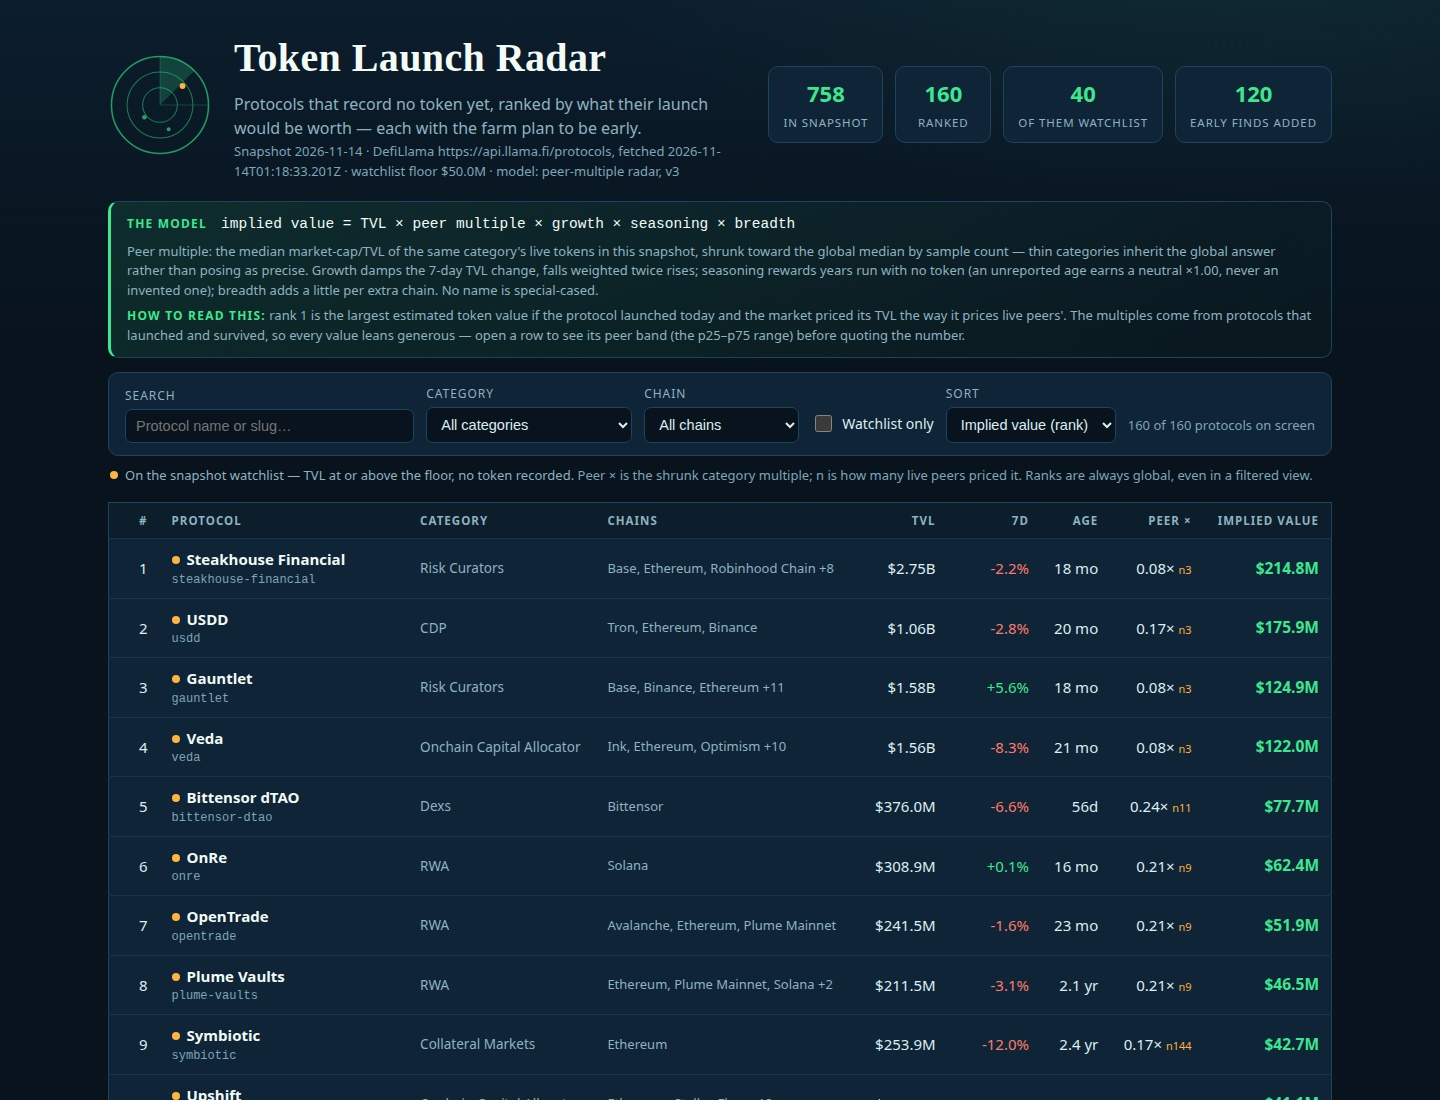
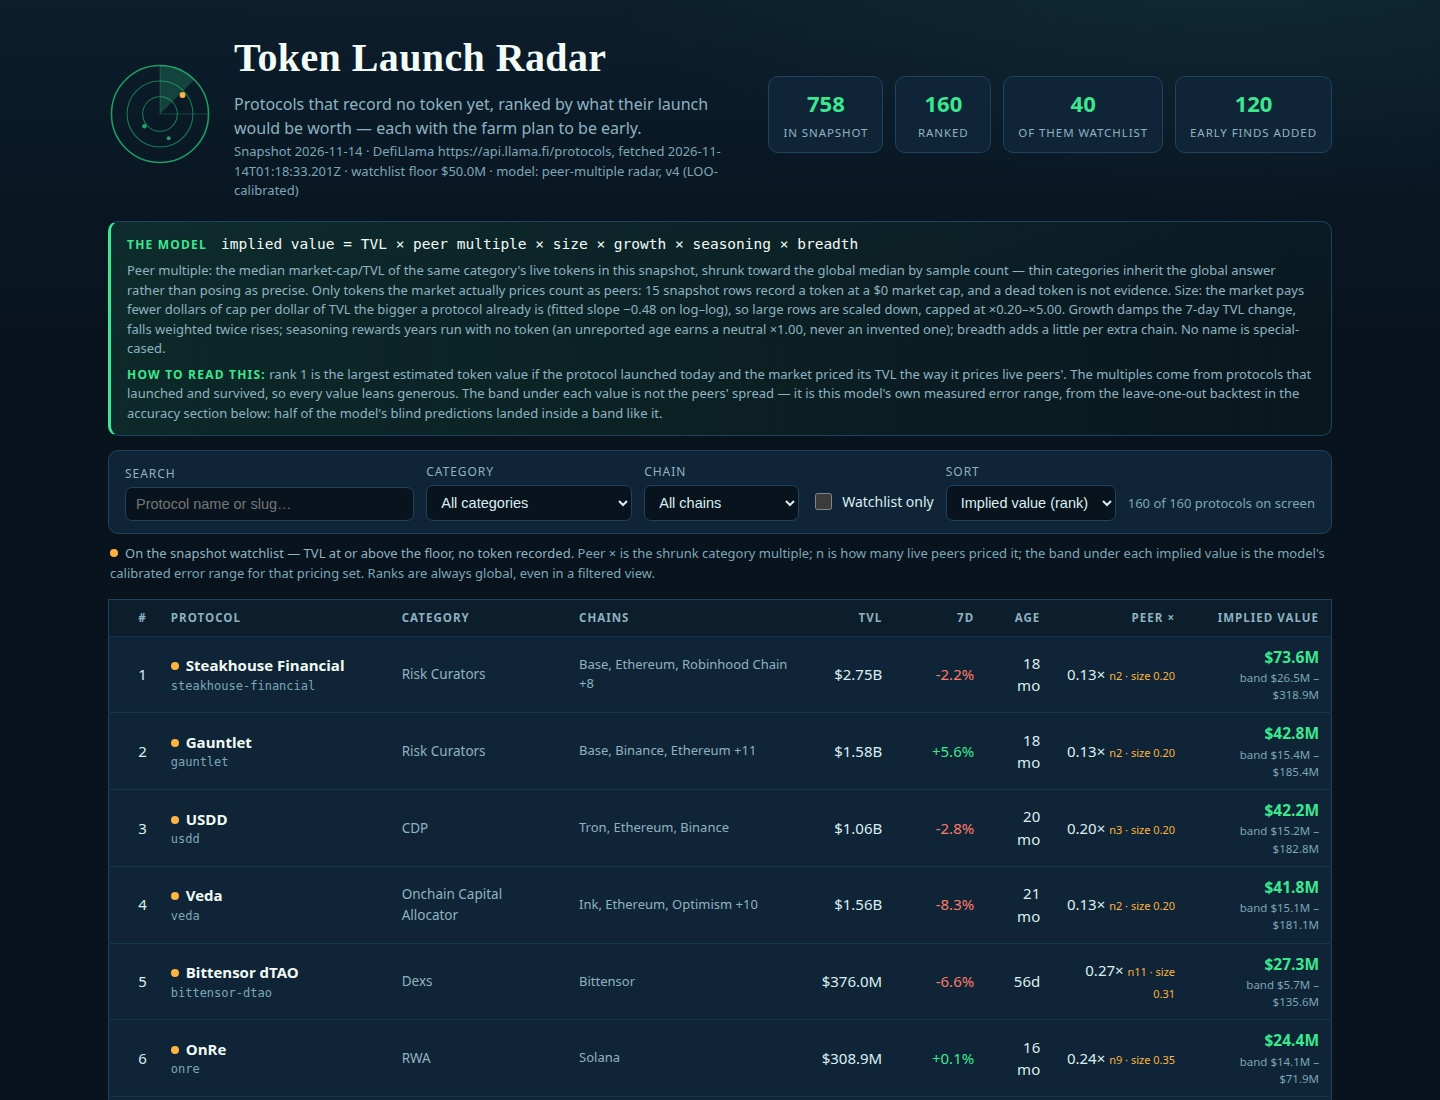
Stage 3 (v2): dashboard v2 — accuracy view, calibrated bands, comparables
- New Model accuracy section + dedicated #view=accuracy mode: LOO
  stat cards, v1-vs-v4 table on identical trials, error histogram,
  per-category record sorted weakest-first
- Board rows carry the calibrated band under each implied value and
  the size factor beside the peer multiple
- Detail view: size factor row, calibrated-band wording, per-row
  backtest context line, and a comparables table of the live peers
  behind the multiple (new comparables payload in RadarData — the
  24-row live strip was a showcase, not the peer universe)
- Four screenshots (board, accuracy, detail, RWA-filtered), all in
  the 300-350 KB band

diff --git a/dashboard/app.js b/dashboard/app.js
@@ -78,8 +78,10 @@ function renderBoard() {
         '<td class="num">' + money(r.tvl_usd) + '</td>' +
         '<td class="num ' + chg + '">' + pct(r.change_7d) + '</td>' +
         '<td class="num">' + ageText(r.age_days) + '</td>' +
-        '<td class="num">' + r.model.peer_multiple.toFixed(2) + '× <span class="pn">n' + r.model.peer_samples + '</span></td>' +
-        '<td class="num implied">' + money(r.implied_value_usd) + '</td>' +
+        '<td class="num">' + r.model.peer_multiple.toFixed(2) + '× <span class="pn">n' + r.model.peer_samples +
+        (r.model.size_factor !== 1 ? ' · size ' + r.model.size_factor.toFixed(2) : '') + '</span></td>' +
+        '<td class="num implied">' + money(r.implied_value_usd) +
+        '<span class="band">band ' + money(r.implied_low_usd) + ' – ' + money(r.implied_high_usd) + '</span></td>' +
         '</tr>'
       );
     })
@@ -87,6 +89,57 @@ function renderBoard() {
   for (const tr of document.querySelectorAll('#board-body tr')) {
     tr.addEventListener('click', () => openDetail(tr.getAttribute('data-slug')));
   }
+}
+
+/* The category whose live peers priced a row: its own when it has a peer
+   set on the evidence table, else the declared alias's, else its own when
+   it is itself an alias target (a thin set the model declares as evidence). */
+const PEER_ALIAS = { 'Risk Curators': 'Onchain Capital Allocator' };
+function pricingCategory(r) {
+  if (!r.category) return null;
+  if (R.peers && R.peers.some((p) => p.category === r.category)) return r.category;
+  if (PEER_ALIAS[r.category]) return PEER_ALIAS[r.category];
+  if (Object.values(PEER_ALIAS).includes(r.category)) return r.category;
+  return null;
+}
+
+/** This pricing set's record in the backtest, in one honest sentence. */
+function accuracyLine(r) {
+  const A = R.accuracy;
+  if (!A) return '';
+  const pc = pricingCategory(r);
+  const c = pc ? A.categories.find((x) => x.category === pc) : null;
+  if (c) {
+    return (
+      'On ' + c.trials + ' blind trials in ' + c.category + ', the model\'s typical miss was ×/÷' +
+      Math.pow(10, c.median_abs_log10).toFixed(1) + ' and ' + c.within_2x_pct +
+      '% of predictions landed within 2× of the actual cap. This row\'s band is that measured range.'
+    );
+  }
+  return (
+    'Across all ' + A.subjects + ' blind trials, the model\'s typical miss was ×/÷' + A.typical_factor.toFixed(1) +
+    '. This row is priced on a set with too few blind trials of its own, so its band is the global measured range.'
+  );
+}
+
+/** The live peers behind a row's multiple, as a comparables table. */
+function comparablesHtml(r) {
+  const pc = pricingCategory(r);
+  if (!pc || !R.comparables) return '';
+  const peers = R.comparables[pc] || [];
+  if (peers.length === 0) return '';
+  return (
+    '<h3>The peers behind the multiple</h3>' +
+    '<table class="factors"><tr><td>Live peer</td><td class="num">Market cap</td><td class="num">TVL</td><td class="num">Cap / TVL</td></tr>' +
+    peers
+      .map(
+        (l) =>
+          '<tr><td>' + esc(l.name) + '</td><td class="num">' + money(l.mcap_usd) + '</td><td class="num">' +
+          money(l.tvl_usd) + '</td><td class="num">' + l.multiple.toFixed(2) + '×</td></tr>',
+      )
+      .join('') +
+    '</table>'
+  );
 }
 
 function openDetail(slug) {
@@ -103,11 +156,12 @@ function openDetail(slug) {
   const factorRows =
     '<tr><td>TVL</td><td class="num">' + money(r.tvl_usd) + '</td><td>the size being priced</td></tr>' +
     '<tr><td>Peer multiple</td><td class="num">' + fx(m.peer_multiple) + '</td><td>' + esc(m.peer_basis) + '</td></tr>' +
+    '<tr><td>Size</td><td class="num">' + fx(m.size_factor) + '</td><td>the market pays less cap per TVL dollar the larger a protocol already is; fitted on the peer set, capped ×0.20–×5.00</td></tr>' +
     '<tr><td>Growth</td><td class="num">' + fx(m.growth_factor) + '</td><td>7-day TVL change ' + m.growth_pct.toFixed(1) + '%, damped; falls weigh twice rises</td></tr>' +
     '<tr><td>Seasoning</td><td class="num">' + fx(m.seasoning_factor) + '</td><td>' + esc(seasonNote) + '</td></tr>' +
     '<tr><td>Breadth</td><td class="num">' + fx(m.breadth_factor) + '</td><td>' + r.chains.length + ' chain(s) recorded</td></tr>' +
-    '<tr class="total"><td>Implied value</td><td class="num">' + money(r.implied_value_usd) + '</td><td>peer band ' +
-    money(r.implied_low_usd) + ' – ' + money(r.implied_high_usd) + ' at the peer set\'s p25–p75</td></tr>';
+    '<tr class="total"><td>Implied value</td><td class="num">' + money(r.implied_value_usd) + '</td><td>calibrated band ' +
+    money(r.implied_low_usd) + ' – ' + money(r.implied_high_usd) + ' — the model\'s measured error range for this pricing set</td></tr>';
   $('detail').innerHTML =
     '<div class="detail-head"><h2>' + esc(r.name) + '</h2>' +
     '<span class="slug">' + esc(r.slug) + '</span>' +
@@ -115,7 +169,7 @@ function openDetail(slug) {
     '<span class="badge">Rank #' + r.rank + ' of ' + R.rows.length + '</span>' +
     '<button class="close" id="detail-close">Close ✕</button></div>' +
     '<div class="fact-grid">' +
-    '<div class="fact"><span>Implied value</span><b>' + money(r.implied_value_usd) + '</b><small>peer band ' +
+    '<div class="fact"><span>Implied value</span><b>' + money(r.implied_value_usd) + '</b><small>calibrated band ' +
     money(r.implied_low_usd) + ' – ' + money(r.implied_high_usd) + '</small></div>' +
     '<div class="fact"><span>TVL</span><b>' + money(r.tvl_usd) + '</b></div>' +
     '<div class="fact"><span>7-day TVL change</span><b class="' + chgClass + '">' + pct(r.change_7d) + '</b></div>' +
@@ -127,7 +181,8 @@ function openDetail(slug) {
     '</div>' +
     '<h3>How the value is worked out</h3>' +
     '<table class="factors">' + factorRows + '</table>' +
-    '<p class="model-note">The band is the same row priced at the peer set\'s p25 and p75 multiples: where peers disagree, the band is wide and the rank is a claim inside it, not a measurement.</p>' +
+    '<p class="model-note">' + esc(accuracyLine(r)) + '</p>' +
+    comparablesHtml(r) +
     '<h3>The farm plan</h3>' +
     '<ol class="steps">' + r.farm_steps.map((s) => '<li>' + esc(s) + '</li>').join('') + '</ol>';
   $('detail').hidden = false;
@@ -138,6 +193,48 @@ function openDetail(slug) {
     renderBoard();
   });
   renderBoard();
+}
+
+function renderAccuracy() {
+  const A = R.accuracy;
+  if (!A) return;
+  const biasWord = (b) => (b <= -0.02 ? 'leans low' : b >= 0.02 ? 'leans high' : 'centred');
+  $('acc-stats').innerHTML =
+    '<div class="stat"><b>' + A.subjects + '</b><span>blind trials</span></div>' +
+    '<div class="stat"><b>×/÷' + A.typical_factor.toFixed(1) + '</b><span>typical miss</span></div>' +
+    '<div class="stat"><b>' + A.within_2x_pct + '%</b><span>within 2×</span></div>' +
+    '<div class="stat"><b>' + A.within_3x_pct + '%</b><span>within 3×</span></div>' +
+    '<div class="stat"><b>' + A.band_coverage_pct + '%</b><span>band coverage</span></div>';
+  const cmpRow = (label, now, before) =>
+    '<tr><td>' + label + '</td><td class="num">' + now + '</td><td class="num">' + before + '</td></tr>';
+  $('acc-cmp').innerHTML =
+    '<thead><tr><th>Measure</th><th class="num">This model</th><th class="num">Previous</th></tr></thead><tbody>' +
+    cmpRow('Typical miss (median error)', '×/÷' + A.typical_factor.toFixed(1), '×/÷' + A.v1.typical_factor.toFixed(1)) +
+    cmpRow('Predictions within 2×', A.within_2x_pct + '%', A.v1.within_2x_pct + '%') +
+    cmpRow('Predictions within 3×', A.within_3x_pct + '%', A.v1.within_3x_pct + '%') +
+    cmpRow('Bias (mean log error)', A.bias_log10.toFixed(2) + ' — ' + biasWord(A.bias_log10), A.v1.bias_log10.toFixed(2) + ' — ' + biasWord(A.v1.bias_log10)) +
+    '</tbody>';
+  const maxCount = Math.max(...A.histogram.map((h) => h.count));
+  $('acc-histo').innerHTML = A.histogram
+    .map(
+      (h) =>
+        '<div class="hrow"><span class="hlabel">' + esc(h.label) + '</span>' +
+        '<span class="hbar" style="width:' + Math.max(2, Math.round((h.count / maxCount) * 100)) + '%"></span>' +
+        '<span class="hcount">' + h.count + '</span></div>',
+    )
+    .join('');
+  const worstFirst = [...A.categories].sort((a, b) => b.median_abs_log10 - a.median_abs_log10);
+  $('acc-cats').innerHTML =
+    '<thead><tr><th>Category</th><th class="num">Trials</th><th class="num">Typical miss</th><th class="num">Bias</th><th class="num">Within 2×</th></tr></thead><tbody>' +
+    worstFirst
+      .map(
+        (c) =>
+          '<tr><td>' + esc(c.category) + '</td><td class="num">' + c.trials + '</td><td class="num">×/÷' +
+          Math.pow(10, c.median_abs_log10).toFixed(1) + '</td><td class="num">' + biasWord(c.bias_log10) + '</td><td class="num">' +
+          c.within_2x_pct + '%</td></tr>',
+      )
+      .join('') +
+    '</tbody>';
 }
 
 function renderPeers() {
@@ -183,6 +280,9 @@ function applyHash() {
   } else if (h.toString()) {
     renderBoard();
   }
+  if (h.get('view') === 'accuracy') {
+    document.body.classList.add('accuracy-mode');
+  }
 }
 
 function init() {
@@ -202,6 +302,7 @@ function init() {
     R.live_size + ' · snapshot as of ' + R.as_of;
   fillSelects();
   renderPeers();
+  renderAccuracy();
   renderLive();
   renderBoard();
   applyHash();

diff --git a/dashboard/index.html b/dashboard/index.html
@@ -29,9 +29,9 @@
 
 <section class="model-strip" id="model-strip">
   <strong>The model</strong>
-  <span id="model-formula">implied value = TVL × peer multiple × growth × seasoning × breadth</span>
-  <span class="model-note">Peer multiple: the median market-cap/TVL of the same category's live tokens in this snapshot, shrunk toward the global median by sample count — thin categories inherit the global answer rather than posing as precise. Growth damps the 7-day TVL change, falls weighted twice rises; seasoning rewards years run with no token (an unreported age earns a neutral ×1.00, never an invented one); breadth adds a little per extra chain. No name is special-cased.</span>
-  <span class="model-note"><strong>How to read this:</strong> rank 1 is the largest estimated token value if the protocol launched today and the market priced its TVL the way it prices live peers'. The multiples come from protocols that launched and survived, so every value leans generous — open a row to see its peer band (the p25–p75 range) before quoting the number.</span>
+  <span id="model-formula">implied value = TVL × peer multiple × size × growth × seasoning × breadth</span>
+  <span class="model-note">Peer multiple: the median market-cap/TVL of the same category's live tokens in this snapshot, shrunk toward the global median by sample count — thin categories inherit the global answer rather than posing as precise. Only tokens the market actually prices count as peers: 15 snapshot rows record a token at a $0 market cap, and a dead token is not evidence. Size: the market pays fewer dollars of cap per dollar of TVL the bigger a protocol already is (fitted slope −0.48 on log–log), so large rows are scaled down, capped at ×0.20–×5.00. Growth damps the 7-day TVL change, falls weighted twice rises; seasoning rewards years run with no token (an unreported age earns a neutral ×1.00, never an invented one); breadth adds a little per extra chain. No name is special-cased.</span>
+  <span class="model-note"><strong>How to read this:</strong> rank 1 is the largest estimated token value if the protocol launched today and the market priced its TVL the way it prices live peers'. The multiples come from protocols that launched and survived, so every value leans generous. The band under each value is not the peers' spread — it is this model's own measured error range, from the leave-one-out backtest in the accuracy section below: half of the model's blind predictions landed inside a band like it.</span>
 </section>
 
 <nav class="controls" aria-label="Board controls">
@@ -58,7 +58,7 @@
   </label>
   <span class="count" id="row-count"></span>
 </nav>
-<p class="legend"><span class="wdot"></span>On the snapshot watchlist — TVL at or above the floor, no token recorded. <span class="legend-dim">Peer × is the shrunk category multiple; n is how many live peers priced it. Ranks are always global, even in a filtered view.</span></p>
+<p class="legend"><span class="wdot"></span>On the snapshot watchlist — TVL at or above the floor, no token recorded. <span class="legend-dim">Peer × is the shrunk category multiple; n is how many live peers priced it; the band under each implied value is the model's calibrated error range for that pricing set. Ranks are always global, even in a filtered view.</span></p>
 
 <main>
   <section id="detail" class="detail" hidden></section>
@@ -81,9 +81,28 @@
   </table>
   <p class="empty" id="empty" hidden>No protocol matches those filters. Loosen one and sweep again.</p>
 
+  <section class="live" id="accuracy">
+    <h2>Model accuracy — the model, graded on protocols it priced blind</h2>
+    <p class="live-note">A leave-one-out backtest inside this snapshot: each of the 128 protocols whose token already trades was removed from the peer set, priced by the model exactly as a pre-token protocol is priced, and compared with the market cap it actually carries. Fifteen further rows record a token at a $0 market cap — no price to predict against — and are excluded as subjects. The bands on the board come from these trials: each row carries the interquartile range of the model's own errors for its pricing set.</p>
+    <div class="acc-stats" id="acc-stats"></div>
+    <div class="acc-cols">
+      <div class="acc-box">
+        <h3 class="acc-h">This model vs the previous one — same 128 blind trials</h3>
+        <table class="peer-table" id="acc-cmp"></table>
+        <h3 class="acc-h">Where the blind predictions landed</h3>
+        <div id="acc-histo"></div>
+      </div>
+      <div class="acc-box">
+        <h3 class="acc-h">Per category — weakest first, nothing hidden</h3>
+        <table class="peer-table" id="acc-cats"></table>
+        <p class="model-note">Bridges and DEX rows carry the widest bands on the board because the model prices them worst: their market caps are set by things TVL does not record. The backtest runs on the same snapshot the model is fitted to — leave-one-out removes each subject from its own peer set, but the model's constants were chosen with these trials in view. Read this as calibration, not out-of-sample proof.</p>
+      </div>
+    </div>
+  </section>
+
   <section class="live" id="peers">
     <h2>The peer multiples, with their evidence</h2>
-    <p class="live-note">Every multiple the board uses, the live sample behind it, and the spread that sample actually shows. A category whose peers disagree thirty-fold prices its rows inside a wide band, and the board says so rather than hiding it in a point estimate.</p>
+    <p class="live-note">Every multiple the board uses, the live sample behind it, and the spread that sample actually shows. The p25–p75 columns are the peers' own spread — evidence about the sample, kept visible; the band on each board row is a different thing, calibrated on the model's backtest errors above. Peer sets count only tokens priced above $0.</p>
     <table class="peer-table" id="peer-table">
       <thead><tr><th>Peer set</th><th class="num">Live peers</th><th class="num">Multiple used</th><th class="num">Peer p25</th><th class="num">Peer p75</th></tr></thead>
       <tbody id="peer-body"></tbody>

diff --git a/dashboard/app.css b/dashboard/app.css
@@ -88,6 +88,13 @@ body.detail-mode .masthead h1 { font-size: 25px; }
 body.detail-mode .tagline, body.detail-mode .mast-stats { display: none; }
 body.detail-mode .detail { margin-top: 10px; }
 
+/* accuracy-only view (a #view=accuracy link): the board steps aside so the
+   backtest record stands alone under the masthead */
+body.accuracy-mode .model-strip, body.accuracy-mode .controls, body.accuracy-mode .legend,
+body.accuracy-mode .board, body.accuracy-mode .empty, body.accuracy-mode #peers,
+body.accuracy-mode #live, body.accuracy-mode footer { display: none; }
+body.accuracy-mode #accuracy { margin-top: 14px; }
+
 /* detail */
 .detail {
   margin: 16px 0; padding: 20px 22px;
@@ -136,6 +143,7 @@ body.detail-mode .detail { margin-top: 10px; }
 .board .cat { color: var(--ink-dim); font-size: 13.5px; }
 .board .chains { color: var(--ink-dim); font-size: 13px; }
 .board .implied { color: var(--phosphor); font-weight: 700; font-size: 15.5px; }
+.board .band { display: block; font-size: 11.5px; font-weight: 400; color: var(--ink-faint); }
 .board .up { color: var(--phosphor); }
 .board .down { color: var(--red); }
 .wdot { display: inline-block; width: 8px; height: 8px; border-radius: 50%; background: var(--amber); margin-right: 7px; vertical-align: 1px; }
@@ -148,6 +156,17 @@ body.detail-mode .detail { margin-top: 10px; }
 .peer-table td.num, .peer-table th.num { text-align: right; font-variant-numeric: tabular-nums; }
 .peer-table td { color: var(--ink-dim); }
 .peer-table td:first-child { color: var(--ink); }
+
+/* accuracy section */
+.acc-stats { display: flex; flex-wrap: wrap; gap: 12px; margin-bottom: 16px; }
+.acc-cols { display: grid; grid-template-columns: 1fr 1fr; gap: 22px; align-items: start; }
+.acc-h { margin: 0 0 8px; font-size: 13px; text-transform: uppercase; letter-spacing: 0.09em; color: var(--phosphor); }
+.acc-box .acc-h:not(:first-child) { margin-top: 18px; }
+.hrow { display: flex; align-items: center; gap: 10px; margin: 5px 0; font-size: 13px; }
+.hlabel { width: 92px; flex: none; color: var(--ink-dim); text-align: right; }
+.hbar { display: block; height: 13px; background: linear-gradient(90deg, var(--phosphor-dim), var(--phosphor)); border-radius: 3px; min-width: 4px; }
+.hcount { color: var(--ink); font-variant-numeric: tabular-nums; }
+@media (max-width: 900px) { .acc-cols { grid-template-columns: 1fr; } }
 
 /* live strip */
 .live { margin-top: 30px; }

diff --git a/lib/model.ts b/lib/model.ts
@@ -227,6 +227,14 @@ export interface BandBook {
   global: BandFactors;
 }
 
+/** One live peer behind a category's multiple, for a detail view's comparables table. */
+export interface PeerComparable {
+  name: string;
+  mcap_usd: number;
+  tvl_usd: number;
+  multiple: number;
+}
+
 /** One category's leave-one-out record, for the dashboard's accuracy view. */
 export interface AccuracyCategory {
   category: string;
@@ -276,6 +284,8 @@ export interface RadarData {
   rows: DashRow[];
   live: LiveRow[];
   peers: PeerRow[];
+  /** The largest priced live peers per category, for detail-view comparables tables. */
+  comparables: Record<string, PeerComparable[]>;
   /** Present when main.ts ran the backtest: the model's measured record on blind pricing trials. */
   accuracy?: AccuracySummary;
 }
@@ -675,6 +685,22 @@ export function liveRows(snapshot: Snapshot): LiveRow[] {
     }));
 }
 
+/** The largest priced live peers of each category, richest-TVL first, for comparables tables. */
+function comparablesByCategory(snapshot: Snapshot): Record<string, PeerComparable[]> {
+  const groups = new Map<string, PeerComparable[]>();
+  for (const p of snapshot.protocols) {
+    if (p.category === null || p.mcap_usd === null || p.mcap_usd <= 0 || p.tvl_usd <= 0) continue;
+    const list = groups.get(p.category) ?? [];
+    list.push({ name: p.name, mcap_usd: p.mcap_usd, tvl_usd: p.tvl_usd, multiple: round4(p.mcap_usd / p.tvl_usd) });
+    groups.set(p.category, list);
+  }
+  const out: Record<string, PeerComparable[]> = {};
+  for (const [category, list] of groups) {
+    out[category] = list.sort((a, b) => b.tvl_usd - a.tvl_usd).slice(0, 8);
+  }
+  return out;
+}
+
 /** The board and the dashboard's data, from one snapshot. */
 export function buildRadar(
   snapshot: Snapshot,
@@ -697,6 +723,7 @@ export function buildRadar(
     rows: board,
     live,
     peers: peerRows(snapshot, model),
+    comparables: comparablesByCategory(snapshot),
     ...(extra.accuracy !== undefined ? { accuracy: extra.accuracy } : {}),
   };
   return { board, radar };

diff --git a/tools/render_screenshots.py b/tools/render_screenshots.py
@@ -1,17 +1,19 @@
 #!/usr/bin/env python3
-"""Render the dashboard's three screenshots with a headless Chromium.
+"""Render the dashboard's four screenshots with a headless Chromium.
 
 Usage:
     python3 tools/render_screenshots.py <dashboard-index-url> <out-dir>
 
-Captures, at 1440x1100:
-    1-board.jpg     the board, unfiltered
-    2-detail.jpg    the detail view of the rank-1 protocol (hash state)
-    3-filtered.jpg  the board filtered to one category (hash state)
+Captures, at 1440 wide:
+    1-board.jpg     the board, unfiltered (1100 tall)
+    2-accuracy.jpg  the model-accuracy section (hash state, 1200 tall)
+    3-detail.jpg    the detail view of one protocol (hash state, 1400 tall)
+    4-filtered.jpg  the board filtered to one category (hash state, 1100 tall)
 
 Each capture is converted to JPEG with the highest quality whose size stays
-under ~350 KB, so the three land in the dossier's 300-350 KB band and never
-near the 512 KiB gate cap. Requires a Chromium binary (CHROME env var or
+under ~350 KB, so the four land in the dossier's 300-350 KB band and never
+near the 512 KiB gate cap. No capture's long side exceeds 1440 px.
+Requires a Chromium binary (CHROME env var or
 /opt/meta-chromium/chrome) and Pillow.
 """
 import glob
@@ -80,11 +82,12 @@ def main() -> int:
     # The detail and filter targets are read from the generated data by the
     # caller through environment variables, with sensible defaults.
     detail_slug = os.environ.get("SHOT_DETAIL_SLUG", "")
-    filter_cat = os.environ.get("SHOT_FILTER_CAT", "Lending")
+    filter_cat = os.environ.get("SHOT_FILTER_CAT", "RWA")
     views = [
         ("1-board.jpg", base_url, HEIGHT),
-        ("2-detail.jpg", f"{base_url}#detail={urllib.parse.quote(detail_slug)}", 1350),
-        ("3-filtered.jpg", f"{base_url}#cat={urllib.parse.quote(filter_cat)}", HEIGHT),
+        ("2-accuracy.jpg", f"{base_url}#view=accuracy", 1200),
+        ("3-detail.jpg", f"{base_url}#detail={urllib.parse.quote(detail_slug)}", 1400),
+        ("4-filtered.jpg", f"{base_url}#cat={urllib.parse.quote(filter_cat)}", HEIGHT),
     ]
     for name, url, height in views:
         png_path = os.path.join(out_dir, name.replace(".jpg", ".png"))
